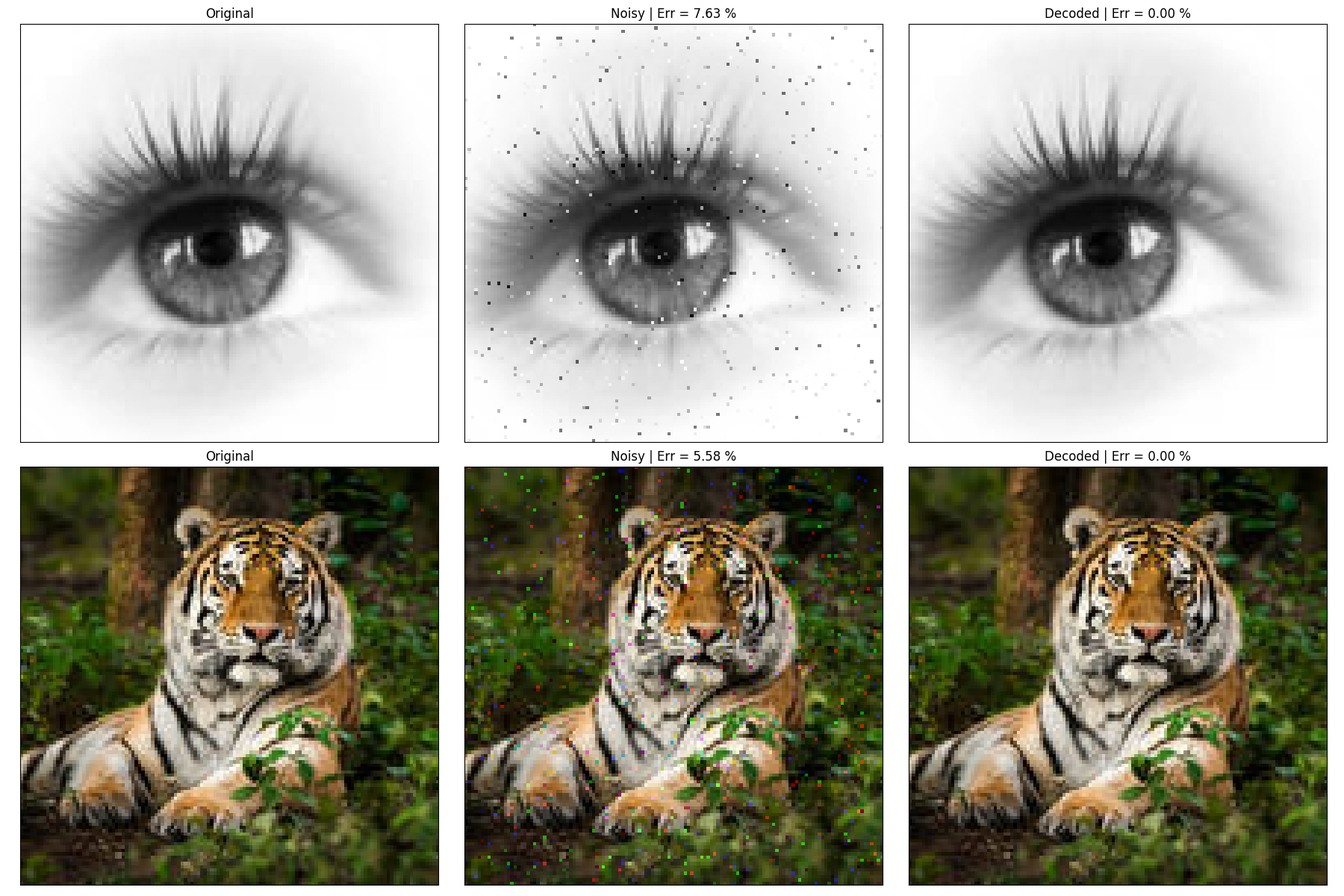
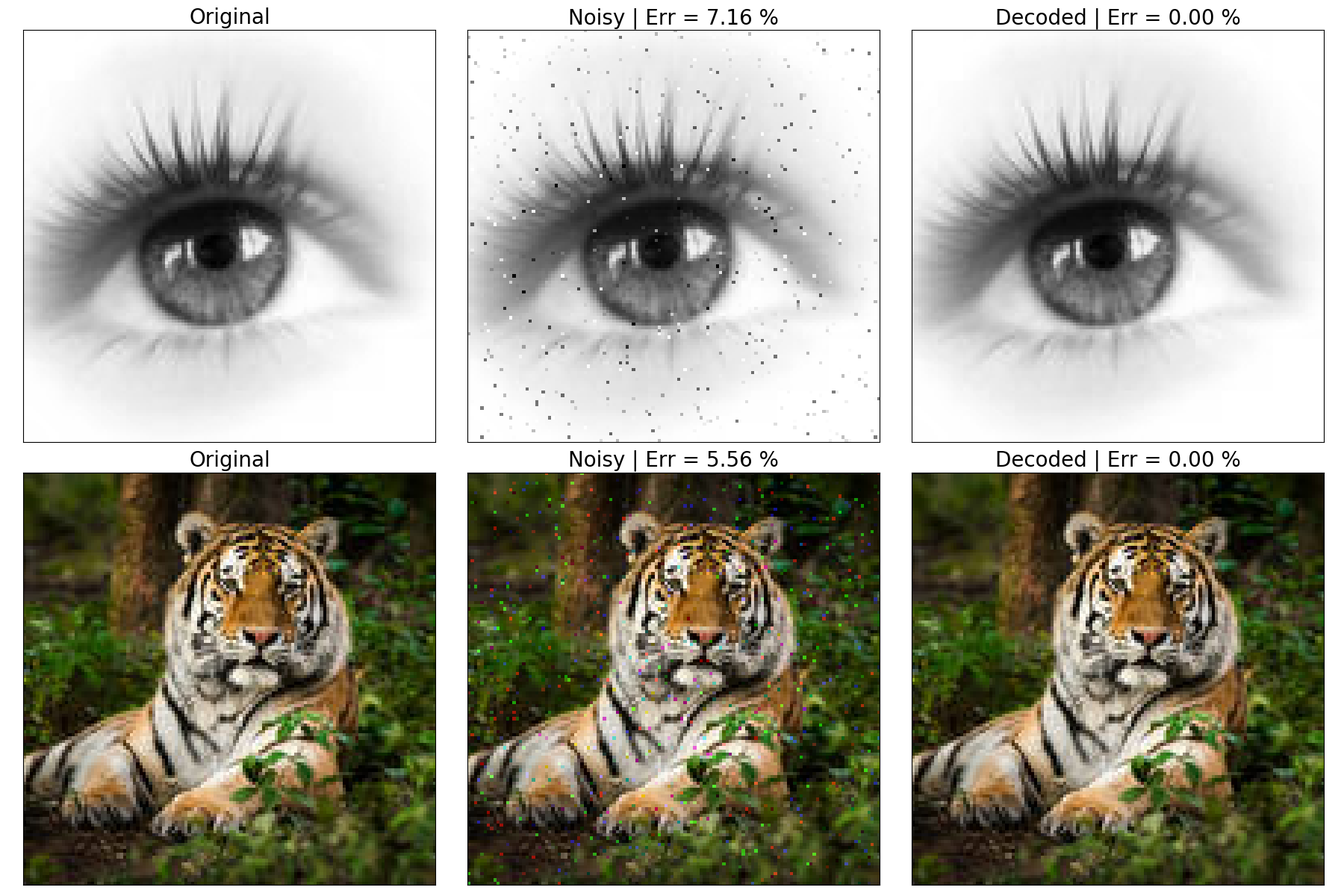
rebuilt docs

diff --git a/searchindex.js b/searchindex.js
@@ -1,1 +1,1 @@
-Search.setIndex({docnames:["api","auto_examples/index","auto_examples/plot_coding_decoding_simulation","auto_examples/plot_image_transmission","auto_examples/plot_parallel_decoding","auto_examples/sg_execution_times","class","function","generated/pyldpc.decode","generated/pyldpc.encode","generated/pyldpc.make_ldpc","index"],envversion:{"sphinx.domains.c":1,"sphinx.domains.changeset":1,"sphinx.domains.citation":1,"sphinx.domains.cpp":1,"sphinx.domains.javascript":1,"sphinx.domains.math":2,"sphinx.domains.python":1,"sphinx.domains.rst":1,"sphinx.domains.std":1,"sphinx.ext.intersphinx":1,"sphinx.ext.viewcode":1,sphinx:56},filenames:["api.rst","auto_examples/index.rst","auto_examples/plot_coding_decoding_simulation.rst","auto_examples/plot_image_transmission.rst","auto_examples/plot_parallel_decoding.rst","auto_examples/sg_execution_times.rst","class.rst","function.rst","generated/pyldpc.decode.rst","generated/pyldpc.encode.rst","generated/pyldpc.make_ldpc.rst","index.rst"],objects:{pyldpc:{decode:[8,0,1,""],encode:[9,0,1,""],make_ldpc:[10,0,1,""]}},objnames:{"0":["py","function","Python function"]},objtypes:{"0":"py:function"},terms:{"10log":9,"boolean":10,"default":10,"float":9,"function":0,"import":[2,3,4,11],"int":[8,10],"return":[8,9],"true":[2,3,4,10,11],Eye:3,With:3,abs:[2,3,4,11],activ:11,add:9,agg:[2,3,4],algorithm:[8,11],all:[1,11],all_img:3,alreadi:11,anaconda:11,ani:11,append:[2,4],applic:11,arang:[2,4],arrai:[8,9],asarrai:3,assert:11,audio:11,author:3,auto_exampl:5,auto_examples_jupyt:1,auto_examples_python:1,ax_row:3,axes:3,backend:[2,3,4],befor:[2,4],belief:[3,11],binari:[2,3,9],bit:[2,4,8,10],bsd:3,bug:11,can:4,cannot:[2,3,4],certain:10,channel:[2,3],check:[2,3,4,10],claus:3,click:[2,3,4],cmap:3,code:[1,4,5,9,10,11],codeword:[8,10],color:[2,4],column:[2,3,4],comput:[2,4],conda:11,construct:10,converg:[2,4],convert:3,corrupt:8,creat:[2,3,4,10,11],csr_matrix:9,current:[2,3,4],d_c:[2,3,4,10,11],d_v:[2,3,4,10,11],data:[3,11],decibel:9,decod:[1,5,10,11],decode_img:3,differ:[2,4],divid:10,document:[2,3,4],done:4,download:[1,2,3,4],encod:[2,4,11],encode_img:3,encount:11,env:11,environ:11,equal:10,equat:10,err:3,error:[2,4],error_decoded_ey:3,error_decoded_tig:3,error_noisy_ey:3,error_noisy_tig:3,estim:3,exampl:[2,3,4],execut:5,eye:3,eye_bin:3,eye_cod:3,eye_decod:3,eye_noisi:3,fals:10,figsiz:3,figur:[2,3,4],file:[5,11],first:[2,3,4],fix:[2,4],from:[2,3,4,9,11],full:[2,3,4],further:11,galleri:[1,2,3,4],gaussian:[2,3,8,9,11],gener:[2,3,4,10],get_messag:[2,4,11],github:[2,3,4,11],going:3,grai:3,gray2bin:3,grayscal:3,greater:10,gui:[2,3,4],guid:11,have:11,here:[2,3,4],hicham:3,hichamjanati:[2,3,4],how:4,imag:[1,5,11],img_list:3,imshow:3,includ:10,increas:[2,4],indianr:[2,4],inform:11,inria:3,introductori:1,ipynb:[2,3,4],issu:11,iter:8,janati:3,jpg:3,jupyt:[1,2,3,4],keep:3,ldpc:[2,3,4,10,11],ldpc_imag:3,length:10,let:3,level:[2,4],licens:3,linspac:[2,4],log:[1,5],mai:[2,4],make_ldpc:[2,3,4,9,11],matplotlib:[2,3,4],matric:[2,3,4,10],matrix:[2,3,4,8,9,10],maximum:8,maxit:[2,4,8],mean:3,memori:3,messag:[1,3,4,5,8,9],minim:11,minut:[2,3,4],modul:[6,7],multipl:8,must:10,n_code:[8,10],n_equat:8,n_messag:[8,9],n_trial:[2,4],nois:[2,3,4,8,9,11],noisi:3,non:[2,3,4],none:[3,9,10],notebook:[1,2,3,4],now:[2,3,4],number:[2,4,8,10],numpi:[2,3,4,11],objnam:[6,7],obtain:9,one:3,ones:[2,3,4],open:3,origin:3,otherwis:11,out:[2,3,4],pair:[2,3,4],parallel:[1,5,8],paramet:[8,9,10],pariti:[2,3,4,10],pass:8,per:[2,3,4],percentag:[2,4],perform:8,pil:3,pip:11,pleas:11,plot:[2,4],plot_coding_decoding_simul:[2,5],plot_image_transmiss:[3,5],plot_parallel_decod:[4,5],plt:[2,3,4],png:3,print:[2,3,4],probabilist:11,proce:3,propag:[3,11],pyldpc:[2,3,4],pyplot:[2,3,4],python:[1,2,3,4,11],randint:11,random:[1,5,10,11],randomst:2,rang:[2,4],rate:[2,4],ratio:9,receiv:8,recommend:11,recov:3,regular:[2,3,4,11],rgb2bin:3,rgb:3,row:[2,3,4],run:[2,3,4],same:10,scipi:9,score:[2,4],script:[2,3,4],second:[2,3,4],see:3,seed:[2,3,4,9,10],set:11,set_titl:3,set_xtick:3,set_ytick:3,shape:[2,3,4,11],show:[2,3,4],signal:9,similarli:3,simpli:4,simul:[1,4,5,11],size:11,small:3,snr:[2,3,4,8,9,11],solut:8,sound:11,sourc:[1,2,3,4,8,9,10],space:8,spars:[2,3,4,9,10,11],speed:4,sphinx:[1,2,3,4],stack:4,stop:[2,4],subplot:3,sum:[2,4,11],system:[2,3],systemat:[2,3,4,10,11],thi:[2,3,4,11],through:[2,3],tiger:3,tiger_bin:3,tiger_cod:3,tiger_decod:3,tiger_noisi:3,tight_layout:3,tile:4,time:[2,3,4],titl:3,titles_ey:3,titles_tig:3,total:[2,3,4,5],transmiss:[2,3,4,11],transpos:9,underlin:[6,7],upgrad:11,usag:3,user:[2,3,4,11],userwarn:[2,3,4],using:[2,3,4,8],utils_img:3,varianc:9,version:11,via:3,want:[2,4],which:[2,3,4],white:[2,3,11],work:[3,11],xlabel:[2,4],ylabel:[2,4],yml:11,you:[2,4,11],zip:[1,3]},titles:["API Documentation","General examples","Coding - Decoding simulation of a random message","Coding - Decoding simulation of an image","Parallelization of Log-BP decoding","Computation times","&lt;no title&gt;","&lt;no title&gt;","pyldpc.decode","pyldpc.encode","pyldpc.make_ldpc","Welcome to pyldpc documentation"],titleterms:{api:0,code:[0,2,3],comput:5,contact:11,decod:[2,3,4,8],depend:11,descript:11,document:[0,11],encod:9,exampl:[1,11],gener:1,imag:3,instal:11,log:4,make_ldpc:10,messag:2,parallel:4,pyldpc:[8,9,10,11],random:2,simul:[2,3],time:5,welcom:11}})
+Search.setIndex({docnames:["api","auto_examples/index","auto_examples/plot_coding_decoding_simulation","auto_examples/plot_image_transmission","auto_examples/plot_parallel_decoding","auto_examples/sg_execution_times","changelog","class","function","generated/pyldpc.decode","generated/pyldpc.encode","generated/pyldpc.make_ldpc","index"],envversion:{"sphinx.domains.c":1,"sphinx.domains.changeset":1,"sphinx.domains.citation":1,"sphinx.domains.cpp":1,"sphinx.domains.javascript":1,"sphinx.domains.math":2,"sphinx.domains.python":1,"sphinx.domains.rst":1,"sphinx.domains.std":1,"sphinx.ext.intersphinx":1,"sphinx.ext.viewcode":1,sphinx:56},filenames:["api.rst","auto_examples/index.rst","auto_examples/plot_coding_decoding_simulation.rst","auto_examples/plot_image_transmission.rst","auto_examples/plot_parallel_decoding.rst","auto_examples/sg_execution_times.rst","changelog.rst","class.rst","function.rst","generated/pyldpc.decode.rst","generated/pyldpc.encode.rst","generated/pyldpc.make_ldpc.rst","index.rst"],objects:{pyldpc:{decode:[9,0,1,""],encode:[10,0,1,""],make_ldpc:[11,0,1,""]}},objnames:{"0":["py","function","Python function"]},objtypes:{"0":"py:function"},terms:{"10log":10,"10x":6,"boolean":11,"default":11,"float":10,"function":0,"import":[2,3,4,12],"int":[9,11],"return":[9,10],"true":[2,3,4,11,12],Eye:3,With:3,abs:[2,3,4,12],activ:12,add:[6,10],agg:[2,3,4],algorithm:[6,9,12],all:[1,12],all_img:3,alreadi:12,anaconda:12,ani:12,append:[2,4],applic:12,arang:[2,4],arrai:[9,10],asarrai:3,assert:12,audio:12,author:3,auto_exampl:5,auto_examples_jupyt:1,auto_examples_python:1,ax_row:3,axes:3,backend:[2,3,4],befor:[2,4],belief:[3,12],binari:[2,3,10],bit:[2,4,9,11],bsd:3,bug:[6,12],can:4,cannot:[2,3,4],certain:11,channel:[2,3],check:[2,3,4,11],claus:3,click:[2,3,4],cmap:3,code:[1,4,5,6,10,11,12],codeword:[9,11],color:[2,4],column:[2,3,4],compact:6,comput:[2,4],conda:12,construct:11,converg:[2,4],convert:3,corrupt:9,creat:[2,3,4,11,12],creation:6,csr_matrix:10,current:[2,3,4],d_c:[2,3,4,11,12],d_v:[2,3,4,11,12],data:[3,12],decibel:10,decod:[1,5,6,11,12],decode_img:3,differ:[2,4],divid:11,document:[2,3,4,6],done:4,download:[1,2,3,4],encod:[2,4,12],encode_img:3,encount:12,env:12,environ:12,equal:11,equat:11,err:3,error:[2,4],error_decoded_ey:3,error_decoded_tig:3,error_noisy_ey:3,error_noisy_tig:3,estim:3,exampl:[2,3,4,6],execut:5,eye:3,eye_bin:3,eye_cod:3,eye_decod:3,eye_noisi:3,fals:11,figsiz:3,figur:[2,3,4],file:[5,12],first:[2,3,4],fix:[2,4,6],fontsiz:3,from:[2,3,4,6,10,12],full:[2,3,4],further:12,gain:6,gallag:6,galleri:[1,2,3,4],gaussian:[2,3,9,10,12],gener:[2,3,4,11],get_messag:[2,4,12],github:[2,3,4,6,12],going:3,grai:3,gray2bin:3,grayscal:3,greater:11,gui:[2,3,4],guid:12,have:12,here:[2,3,4],hicham:3,hichamjanati:[2,3,4],how:4,imag:[1,5,6,12],img_list:3,imshow:3,includ:11,increas:[2,4],indianr:[2,4],inform:12,inria:3,introductori:1,ipynb:[2,3,4],issu:12,iter:9,janati:3,jpg:3,jupyt:[1,2,3,4],keep:3,ldpc:[2,3,4,6,11,12],ldpc_imag:3,length:11,let:3,level:[2,4],licens:3,linspac:[2,4],log:[1,5],mai:[2,4],major:6,make:6,make_ldpc:[2,3,4,10,12],matplotlib:[2,3,4],matric:[2,3,4,11],matrix:[2,3,4,6,9,10,11],maximum:9,maxit:[2,4,9],mean:3,memori:3,messag:[1,3,4,5,6,9,10],minim:12,minut:[2,3,4],modul:[6,7,8],move:6,multipl:[6,9],must:11,n_code:[9,11],n_equat:9,n_messag:[9,10],n_trial:[2,4],nois:[2,3,4,9,10,12],noisi:3,non:[2,3,4],none:[3,10,11],notebook:[1,2,3,4],now:[2,3,4],numba:6,number:[2,4,9,11],numpi:[2,3,4,12],objnam:[7,8],obtain:10,one:3,ones:[2,3,4],open:3,origin:3,otherwis:12,out:[2,3,4],page:6,pair:[2,3,4],parallel:[1,5,6,9],paralleliz:6,paramet:[9,10,11],pariti:[2,3,4,11],pass:9,per:[2,3,4],percentag:[2,4],perform:9,pil:3,pip:12,pleas:12,plot:[2,4],plot_coding_decoding_simul:[2,5],plot_image_transmiss:[3,5],plot_parallel_decod:[4,5],plt:[2,3,4],png:3,print:[2,3,4],probabilist:12,proce:3,propag:[3,12],pyldpc:[2,3,4],pyplot:[2,3,4],python:[1,2,3,4,12],randint:12,random:[1,5,11,12],randomst:2,rang:[2,4],rate:[2,4],ratio:10,readthedoc:6,receiv:9,recommend:12,recov:3,regular:[2,3,4,12],rgb2bin:3,rgb:3,row:[2,3,4],run:[2,3,4],same:11,scipi:10,score:[2,4],script:[2,3,4],second:[2,3,4],see:3,seed:[2,3,4,10,11],set:12,set_titl:3,set_xtick:3,set_ytick:3,shape:[2,3,4,12],show:[2,3,4],signal:10,similarli:3,simpli:4,simul:[1,4,5,12],size:12,small:3,snr:[2,3,4,9,10,12],solut:9,sound:6,sourc:[1,2,3,4,9,10,11],space:9,spars:[2,3,4,10,11,12],speed:[4,6],sphinx:[1,2,3,4],stack:[4,6],stop:[2,4],subplot:3,sum:[2,4,12],system:[2,3],systemat:[2,3,4,11,12],thi:[2,3,4,12],through:[2,3],tiger:3,tiger_bin:3,tiger_cod:3,tiger_decod:3,tiger_noisi:3,tight_layout:3,tile:4,time:[2,3,4],titl:3,titles_ey:3,titles_tig:3,total:[2,3,4,5],transmiss:[2,3,4,12],transpos:10,underlin:[7,8],upgrad:12,usag:3,user:[2,3,4,12],userwarn:[2,3,4],using:[2,3,4,9],utils_img:3,varianc:10,version:12,via:[3,6],want:[2,4],which:[2,3,4],white:[2,3,12],work:[3,12],xlabel:[2,4],ylabel:[2,4],yml:12,you:[2,4,12],zip:[1,3]},titles:["API Documentation","General examples","Coding - Decoding simulation of a random message","Coding - Decoding simulation of an image","Parallelization of Log-BP decoding","Computation times","Change Log","&lt;no title&gt;","&lt;no title&gt;","pyldpc.decode","pyldpc.encode","pyldpc.make_ldpc","Welcome to pyldpc documentation"],titleterms:{api:0,chang:6,code:[0,2,3],comput:5,contact:12,decod:[2,3,4,9],depend:12,descript:12,document:[0,12],encod:10,exampl:[1,12],gener:1,imag:3,instal:12,log:[4,6],make_ldpc:11,messag:2,parallel:4,pyldpc:[9,10,11,12],random:2,simul:[2,3],time:5,version:6,welcom:12}})

diff --git a/changelog.html b/changelog.html
@@ -3,7 +3,7 @@
 <html xmlns="http://www.w3.org/1999/xhtml">
   <head>
     <meta charset="utf-8" />
-    <title>API Documentation &#8212; pyldpc 0.7.8 documentation</title>
+    <title>Change Log &#8212; pyldpc 0.7.8 documentation</title>
     <link rel="stylesheet" href="_static/bootstrap-sphinx.css" type="text/css" />
     <link rel="stylesheet" href="_static/pygments.css" type="text/css" />
     <link rel="stylesheet" type="text/css" href="_static/gallery.css" />
@@ -14,8 +14,6 @@
     <script type="text/javascript" src="_static/language_data.js"></script>
     <link rel="index" title="Index" href="genindex.html" />
     <link rel="search" title="Search" href="search.html" />
-    <link rel="next" title="pyldpc.make_ldpc" href="generated/pyldpc.make_ldpc.html" />
-    <link rel="prev" title="Welcome to pyldpc documentation" href="index.html" />
 <meta charset='utf-8'>
 <meta http-equiv='X-UA-Compatible' content='IE=edge,chrome=1'>
 <meta name='viewport' content='width=device-width, initial-scale=1.0, maximum-scale=1'>
@@ -45,7 +43,7 @@
           <ul class="nav navbar-nav">
             
                 <li><a href="auto_examples/index.html">Examples</a></li>
-                <li><a href="#">API</a></li>
+                <li><a href="api.html">API</a></li>
                 <li><a href="https://github.com/hichamjanati/pyldpc">GitHub</a></li>
             
             
@@ -58,8 +56,8 @@
   <ul class="dropdown-menu globaltoc"
       role="menu"
       aria-labelledby="dLabelGlobalToc"><p class="caption"><span class="caption-text">Documentation</span></p>
-<ul class="current">
-<li class="toctree-l1 current"><a class="current reference internal" href="#">API Documentation</a></li>
+<ul>
+<li class="toctree-l1"><a class="reference internal" href="api.html">API Documentation</a></li>
 </ul>
 <p class="caption"><span class="caption-text">Tutorial - Examples</span></p>
 <ul>
@@ -77,8 +75,8 @@
   <ul class="dropdown-menu localtoc"
       role="menu"
       aria-labelledby="dLabelLocalToc"><ul>
-<li><a class="reference internal" href="#">API Documentation</a><ul>
-<li><a class="reference internal" href="#code">code</a></li>
+<li><a class="reference internal" href="#">Change Log</a><ul>
+<li><a class="reference internal" href="#version-0-7-8">Version 0.7.8</a></li>
 </ul>
 </li>
 </ul>
@@ -92,7 +90,7 @@
             
               <li class="hidden-sm">
 <div id="sourcelink">
-  <a href="_sources/api.rst.txt"
+  <a href="_sources/changelog.rst.txt"
      rel="nofollow">Source</a>
 </div></li>
             
@@ -116,28 +114,17 @@
   <div class="row">
     <div class="body col-md-12 content" role="main">
       
-  <div class="section" id="api-documentation">
-<span id="id1"></span><h1>API Documentation<a class="headerlink" href="#api-documentation" title="Permalink to this headline">¶</a></h1>
-<div class="section" id="code">
-<h2>code<a class="headerlink" href="#code" title="Permalink to this headline">¶</a></h2>
-<p>Functions</p>
-<table class="longtable docutils align-default">
-<colgroup>
-<col style="width: 10%" />
-<col style="width: 90%" />
-</colgroup>
-<tbody>
-<tr class="row-odd"><td><p><a class="reference internal" href="generated/pyldpc.make_ldpc.html#pyldpc.make_ldpc" title="pyldpc.make_ldpc"><code class="xref py py-obj docutils literal notranslate"><span class="pre">make_ldpc</span></code></a>(n_code, d_v, d_c[, systematic, …])</p></td>
-<td><p>Create an LDPC coding and decoding matrices H and G.</p></td>
-</tr>
-<tr class="row-even"><td><p><a class="reference internal" href="generated/pyldpc.encode.html#pyldpc.encode" title="pyldpc.encode"><code class="xref py py-obj docutils literal notranslate"><span class="pre">encode</span></code></a>(tG, v, snr[, seed])</p></td>
-<td><p>Encode a binary message and adds Gaussian noise.</p></td>
-</tr>
-<tr class="row-odd"><td><p><a class="reference internal" href="generated/pyldpc.decode.html#pyldpc.decode" title="pyldpc.decode"><code class="xref py py-obj docutils literal notranslate"><span class="pre">decode</span></code></a>(H, y, snr[, maxiter])</p></td>
-<td><p>Decode a Gaussian noise corrupted n bits message using BP algorithm.</p></td>
-</tr>
-</tbody>
-</table>
+  <div class="section" id="change-log">
+<span id="changelog"></span><h1>Change Log<a class="headerlink" href="#change-log" title="Permalink to this headline">¶</a></h1>
+<div class="section" id="version-0-7-8">
+<h2>Version 0.7.8<a class="headerlink" href="#version-0-7-8" title="Permalink to this headline">¶</a></h2>
+<ul class="simple">
+<li><p>Fix a major bug in creation of the LDPC matrix H with Gallager’s algorithm.</p></li>
+<li><p>10x speed gain in decoding with numba</p></li>
+<li><p>Make coding and decoding parallelizable by stacking multiple messages.</p></li>
+<li><p>Make images and sound modules compact via parallel coding and decoding.</p></li>
+<li><p>Move documentation from readthedocs to github-pages + add example on images.</p></li>
+</ul>
 </div>
 </div>
 

diff --git a/auto_examples/plot_image_transmission.html b/auto_examples/plot_image_transmission.html
@@ -3,7 +3,7 @@
 <html xmlns="http://www.w3.org/1999/xhtml">
   <head>
     <meta charset="utf-8" />
-    <title>Coding - Decoding simulation of an image &#8212; pyldpc 0.7.7 documentation</title>
+    <title>Coding - Decoding simulation of an image &#8212; pyldpc 0.7.8 documentation</title>
     <link rel="stylesheet" href="../_static/bootstrap-sphinx.css" type="text/css" />
     <link rel="stylesheet" href="../_static/pygments.css" type="text/css" />
     <link rel="stylesheet" type="text/css" href="../_static/gallery.css" />
@@ -37,7 +37,7 @@
         </button>
         <a class="navbar-brand" href="../index.html">
           pyldpc</a>
-        <span class="navbar-text navbar-version pull-left"><b>0.7.7</b></span>
+        <span class="navbar-text navbar-version pull-left"><b>0.7.8</b></span>
       </div>
 
         <div class="collapse navbar-collapse nav-collapse">
@@ -179,7 +179,7 @@ and recover the original image via belief-propagation.</p>
 </div>
 <p class="sphx-glr-script-out">Out:</p>
 <div class="sphx-glr-script-out highlight-none notranslate"><div class="highlight"><pre><span></span>Coded eye shape (200, 2521)
-Eye | Decoding time:  0.6544609069824219
+Eye | Decoding time:  0.7229030132293701
 </pre></div>
 </div>
 <p>With RGB images, we proceed similarly</p>
@@ -214,7 +214,7 @@ Eye | Decoding time:  0.6544609069824219
                                           <span class="n">all_imgs</span><span class="p">,</span> <span class="p">[</span><span class="s2">&quot;gray&quot;</span><span class="p">,</span> <span class="kc">None</span><span class="p">]):</span>
     <span class="k">for</span> <span class="n">ax</span><span class="p">,</span> <span class="n">data</span><span class="p">,</span> <span class="n">title</span> <span class="ow">in</span> <span class="nb">zip</span><span class="p">(</span><span class="n">ax_row</span><span class="p">,</span> <span class="n">img_list</span><span class="p">,</span> <span class="n">titles</span><span class="p">):</span>
         <span class="n">ax</span><span class="o">.</span><span class="n">imshow</span><span class="p">(</span><span class="n">data</span><span class="p">,</span> <span class="n">cmap</span><span class="o">=</span><span class="n">cmap</span><span class="p">)</span>
-        <span class="n">ax</span><span class="o">.</span><span class="n">set_title</span><span class="p">(</span><span class="n">title</span><span class="p">)</span>
+        <span class="n">ax</span><span class="o">.</span><span class="n">set_title</span><span class="p">(</span><span class="n">title</span><span class="p">,</span> <span class="n">fontsize</span><span class="o">=</span><span class="mi">20</span><span class="p">)</span>
         <span class="n">ax</span><span class="o">.</span><span class="n">set_xticks</span><span class="p">([])</span>
         <span class="n">ax</span><span class="o">.</span><span class="n">set_yticks</span><span class="p">([])</span>
 <a href="https://matplotlib.org/api/_as_gen/matplotlib.pyplot.tight_layout.html#matplotlib.pyplot.tight_layout" title="View documentation for matplotlib.pyplot.tight_layout"><span class="n">plt</span><span class="o">.</span><span class="n">tight_layout</span></a><span class="p">()</span>
@@ -226,13 +226,13 @@ Eye | Decoding time:  0.6544609069824219
 <div class="sphx-glr-script-out highlight-none notranslate"><div class="highlight"><pre><span></span>Tiger shape: (128, 128, 3)
 Tiger Binary shape: (128, 128, 24)
 Coded Tiger shape (200, 7562)
-Tiger | Decoding time:  1.9905340671539307
+Tiger | Decoding time:  2.0134830474853516
 /Users/hichamjanati/Documents/github/pyldpc/examples/plot_image_transmission.py:101: UserWarning: Matplotlib is currently using agg, which is a non-GUI backend, so cannot show the figure.
   plt.show()
 </pre></div>
 </div>
-<p class="sphx-glr-timing"><strong>Total running time of the script:</strong> ( 0 minutes  4.655 seconds)</p>
-<p><strong>Estimated memory usage:</strong>  163 MB</p>
+<p class="sphx-glr-timing"><strong>Total running time of the script:</strong> ( 0 minutes  4.796 seconds)</p>
+<p><strong>Estimated memory usage:</strong>  159 MB</p>
 <div class="sphx-glr-footer class sphx-glr-footer-example docutils container" id="sphx-glr-download-auto-examples-plot-image-transmission-py">
 <div class="sphx-glr-download docutils container">
 <p><a class="reference download internal" download="" href="../_downloads/3a07f9ec31f0ead0b93a822e23a20030/plot_image_transmission.py"><code class="xref download docutils literal notranslate"><span class="pre">Download</span> <span class="pre">Python</span> <span class="pre">source</span> <span class="pre">code:</span> <span class="pre">plot_image_transmission.py</span></code></a></p>

diff --git a/auto_examples/sg_execution_times.html b/auto_examples/sg_execution_times.html
@@ -3,7 +3,7 @@
 <html xmlns="http://www.w3.org/1999/xhtml">
   <head>
     <meta charset="utf-8" />
-    <title>Computation times &#8212; pyldpc 0.7.7 documentation</title>
+    <title>Computation times &#8212; pyldpc 0.7.8 documentation</title>
     <link rel="stylesheet" href="../_static/bootstrap-sphinx.css" type="text/css" />
     <link rel="stylesheet" href="../_static/pygments.css" type="text/css" />
     <link rel="stylesheet" type="text/css" href="../_static/gallery.css" />
@@ -36,7 +36,7 @@
         </button>
         <a class="navbar-brand" href="../index.html">
           pyldpc</a>
-        <span class="navbar-text navbar-version pull-left"><b>0.7.7</b></span>
+        <span class="navbar-text navbar-version pull-left"><b>0.7.8</b></span>
       </div>
 
         <div class="collapse navbar-collapse nav-collapse">
@@ -113,9 +113,9 @@
       
   <div class="section" id="computation-times">
 <span id="sphx-glr-auto-examples-sg-execution-times"></span><h1>Computation times<a class="headerlink" href="#computation-times" title="Permalink to this headline">¶</a></h1>
-<p><strong>00:04.655</strong> total execution time for <strong>auto_examples</strong> files:</p>
+<p><strong>00:04.796</strong> total execution time for <strong>auto_examples</strong> files:</p>
 <ul class="simple">
-<li><p><strong>00:04.655</strong>: <a class="reference internal" href="plot_image_transmission.html#sphx-glr-auto-examples-plot-image-transmission-py"><span class="std std-ref">Coding - Decoding simulation of an image</span></a> (<code class="docutils literal notranslate"><span class="pre">plot_image_transmission.py</span></code>)</p></li>
+<li><p><strong>00:04.796</strong>: <a class="reference internal" href="plot_image_transmission.html#sphx-glr-auto-examples-plot-image-transmission-py"><span class="std std-ref">Coding - Decoding simulation of an image</span></a> (<code class="docutils literal notranslate"><span class="pre">plot_image_transmission.py</span></code>)</p></li>
 <li><p><strong>00:00.000</strong>: <a class="reference internal" href="plot_coding_decoding_simulation.html#sphx-glr-auto-examples-plot-coding-decoding-simulation-py"><span class="std std-ref">Coding - Decoding simulation of a random message</span></a> (<code class="docutils literal notranslate"><span class="pre">plot_coding_decoding_simulation.py</span></code>)</p></li>
 <li><p><strong>00:00.000</strong>: <a class="reference internal" href="plot_parallel_decoding.html#sphx-glr-auto-examples-plot-parallel-decoding-py"><span class="std std-ref">Parallelization of Log-BP decoding</span></a> (<code class="docutils literal notranslate"><span class="pre">plot_parallel_decoding.py</span></code>)</p></li>
 </ul>

diff --git a/index.html b/index.html
@@ -3,7 +3,7 @@
 <html xmlns="http://www.w3.org/1999/xhtml">
   <head>
     <meta charset="utf-8" />
-    <title>Welcome to pyldpc documentation &#8212; pyldpc 0.7.7 documentation</title>
+    <title>Welcome to pyldpc documentation &#8212; pyldpc 0.7.8 documentation</title>
     <link rel="stylesheet" href="_static/bootstrap-sphinx.css" type="text/css" />
     <link rel="stylesheet" href="_static/pygments.css" type="text/css" />
     <link rel="stylesheet" type="text/css" href="_static/gallery.css" />
@@ -37,7 +37,7 @@
         </button>
         <a class="navbar-brand" href="#">
           pyldpc</a>
-        <span class="navbar-text navbar-version pull-left"><b>0.7.7</b></span>
+        <span class="navbar-text navbar-version pull-left"><b>0.7.8</b></span>
       </div>
 
         <div class="collapse navbar-collapse nav-collapse">
@@ -124,7 +124,7 @@
       
   <div class="section" id="welcome-to-pyldpc-documentation">
 <h1>Welcome to pyldpc documentation<a class="headerlink" href="#welcome-to-pyldpc-documentation" title="Permalink to this headline">¶</a></h1>
-<p><em>version 0.7.7</em></p>
+<p><em>version 0.7.8</em></p>
 <div class="section" id="description">
 <h2>Description:<a class="headerlink" href="#description" title="Permalink to this headline">¶</a></h2>
 <ul class="simple">
@@ -135,10 +135,6 @@
 <p><strong>Image coding-decoding example:</strong></p>
 <img alt="https://media.giphy.com/media/l4KicsAauqIWjeFR6/giphy.gif" src="https://media.giphy.com/media/l4KicsAauqIWjeFR6/giphy.gif" />
 <img alt="https://media.giphy.com/media/l0COHC49bK6g7yIPm/giphy.gif" src="https://media.giphy.com/media/l0COHC49bK6g7yIPm/giphy.gif" />
-<p><strong>Sound coding-decoding example:</strong></p>
-<blockquote>
-<div><p><a class="reference external" href="http://nbviewer.jupyter.org/github/hichamjanati/pyldpc-tutos/blob/master/Example-Sound.ipynb">Sound Transmission</a></p>
-</div></blockquote>
 </div>
 <div class="section" id="installation">
 <h2>Installation<a class="headerlink" href="#installation" title="Permalink to this headline">¶</a></h2>

diff --git a/auto_examples/plot_coding_decoding_simulation.html b/auto_examples/plot_coding_decoding_simulation.html
@@ -3,7 +3,7 @@
 <html xmlns="http://www.w3.org/1999/xhtml">
   <head>
     <meta charset="utf-8" />
-    <title>Coding - Decoding simulation of a random message &#8212; pyldpc 0.7.7 documentation</title>
+    <title>Coding - Decoding simulation of a random message &#8212; pyldpc 0.7.8 documentation</title>
     <link rel="stylesheet" href="../_static/bootstrap-sphinx.css" type="text/css" />
     <link rel="stylesheet" href="../_static/pygments.css" type="text/css" />
     <link rel="stylesheet" type="text/css" href="../_static/gallery.css" />
@@ -38,7 +38,7 @@
         </button>
         <a class="navbar-brand" href="../index.html">
           pyldpc</a>
-        <span class="navbar-text navbar-version pull-left"><b>0.7.7</b></span>
+        <span class="navbar-text navbar-version pull-left"><b>0.7.8</b></span>
       </div>
 
         <div class="collapse navbar-collapse nav-collapse">

diff --git a/auto_examples/plot_parallel_decoding.html b/auto_examples/plot_parallel_decoding.html
@@ -3,7 +3,7 @@
 <html xmlns="http://www.w3.org/1999/xhtml">
   <head>
     <meta charset="utf-8" />
-    <title>Parallelization of Log-BP decoding &#8212; pyldpc 0.7.7 documentation</title>
+    <title>Parallelization of Log-BP decoding &#8212; pyldpc 0.7.8 documentation</title>
     <link rel="stylesheet" href="../_static/bootstrap-sphinx.css" type="text/css" />
     <link rel="stylesheet" href="../_static/pygments.css" type="text/css" />
     <link rel="stylesheet" type="text/css" href="../_static/gallery.css" />
@@ -38,7 +38,7 @@
         </button>
         <a class="navbar-brand" href="../index.html">
           pyldpc</a>
-        <span class="navbar-text navbar-version pull-left"><b>0.7.7</b></span>
+        <span class="navbar-text navbar-version pull-left"><b>0.7.8</b></span>
       </div>
 
         <div class="collapse navbar-collapse nav-collapse">

diff --git a/_modules/index.html b/_modules/index.html
@@ -3,7 +3,7 @@
 <html xmlns="http://www.w3.org/1999/xhtml">
   <head>
     <meta charset="utf-8" />
-    <title>Overview: module code &#8212; pyldpc 0.7.7 documentation</title>
+    <title>Overview: module code &#8212; pyldpc 0.7.8 documentation</title>
     <link rel="stylesheet" href="../_static/bootstrap-sphinx.css" type="text/css" />
     <link rel="stylesheet" href="../_static/pygments.css" type="text/css" />
     <link rel="stylesheet" type="text/css" href="../_static/gallery.css" />
@@ -36,7 +36,7 @@
         </button>
         <a class="navbar-brand" href="../index.html">
           pyldpc</a>
-        <span class="navbar-text navbar-version pull-left"><b>0.7.7</b></span>
+        <span class="navbar-text navbar-version pull-left"><b>0.7.8</b></span>
       </div>
 
         <div class="collapse navbar-collapse nav-collapse">

diff --git a/_modules/pyldpc/decoder.html b/_modules/pyldpc/decoder.html
@@ -3,7 +3,7 @@
 <html xmlns="http://www.w3.org/1999/xhtml">
   <head>
     <meta charset="utf-8" />
-    <title>pyldpc.decoder &#8212; pyldpc 0.7.7 documentation</title>
+    <title>pyldpc.decoder &#8212; pyldpc 0.7.8 documentation</title>
     <link rel="stylesheet" href="../../_static/bootstrap-sphinx.css" type="text/css" />
     <link rel="stylesheet" href="../../_static/pygments.css" type="text/css" />
     <link rel="stylesheet" type="text/css" href="../../_static/gallery.css" />
@@ -36,7 +36,7 @@
         </button>
         <a class="navbar-brand" href="../../index.html">
           pyldpc</a>
-        <span class="navbar-text navbar-version pull-left"><b>0.7.7</b></span>
+        <span class="navbar-text navbar-version pull-left"><b>0.7.8</b></span>
       </div>
 
         <div class="collapse navbar-collapse nav-collapse">

diff --git a/_modules/pyldpc/encoder.html b/_modules/pyldpc/encoder.html
@@ -3,7 +3,7 @@
 <html xmlns="http://www.w3.org/1999/xhtml">
   <head>
     <meta charset="utf-8" />
-    <title>pyldpc.encoder &#8212; pyldpc 0.7.7 documentation</title>
+    <title>pyldpc.encoder &#8212; pyldpc 0.7.8 documentation</title>
     <link rel="stylesheet" href="../../_static/bootstrap-sphinx.css" type="text/css" />
     <link rel="stylesheet" href="../../_static/pygments.css" type="text/css" />
     <link rel="stylesheet" type="text/css" href="../../_static/gallery.css" />
@@ -36,7 +36,7 @@
         </button>
         <a class="navbar-brand" href="../../index.html">
           pyldpc</a>
-        <span class="navbar-text navbar-version pull-left"><b>0.7.7</b></span>
+        <span class="navbar-text navbar-version pull-left"><b>0.7.8</b></span>
       </div>
 
         <div class="collapse navbar-collapse nav-collapse">

diff --git a/_modules/pyldpc/code.html b/_modules/pyldpc/code.html
@@ -3,7 +3,7 @@
 <html xmlns="http://www.w3.org/1999/xhtml">
   <head>
     <meta charset="utf-8" />
-    <title>pyldpc.code &#8212; pyldpc 0.7.7 documentation</title>
+    <title>pyldpc.code &#8212; pyldpc 0.7.8 documentation</title>
     <link rel="stylesheet" href="../../_static/bootstrap-sphinx.css" type="text/css" />
     <link rel="stylesheet" href="../../_static/pygments.css" type="text/css" />
     <link rel="stylesheet" type="text/css" href="../../_static/gallery.css" />
@@ -36,7 +36,7 @@
         </button>
         <a class="navbar-brand" href="../../index.html">
           pyldpc</a>
-        <span class="navbar-text navbar-version pull-left"><b>0.7.7</b></span>
+        <span class="navbar-text navbar-version pull-left"><b>0.7.8</b></span>
       </div>
 
         <div class="collapse navbar-collapse nav-collapse">

diff --git a/auto_examples/index.html b/auto_examples/index.html
@@ -3,7 +3,7 @@
 <html xmlns="http://www.w3.org/1999/xhtml">
   <head>
     <meta charset="utf-8" />
-    <title>General examples &#8212; pyldpc 0.7.7 documentation</title>
+    <title>General examples &#8212; pyldpc 0.7.8 documentation</title>
     <link rel="stylesheet" href="../_static/bootstrap-sphinx.css" type="text/css" />
     <link rel="stylesheet" href="../_static/pygments.css" type="text/css" />
     <link rel="stylesheet" type="text/css" href="../_static/gallery.css" />
@@ -38,7 +38,7 @@
         </button>
         <a class="navbar-brand" href="../index.html">
           pyldpc</a>
-        <span class="navbar-text navbar-version pull-left"><b>0.7.7</b></span>
+        <span class="navbar-text navbar-version pull-left"><b>0.7.8</b></span>
       </div>
 
         <div class="collapse navbar-collapse nav-collapse">
